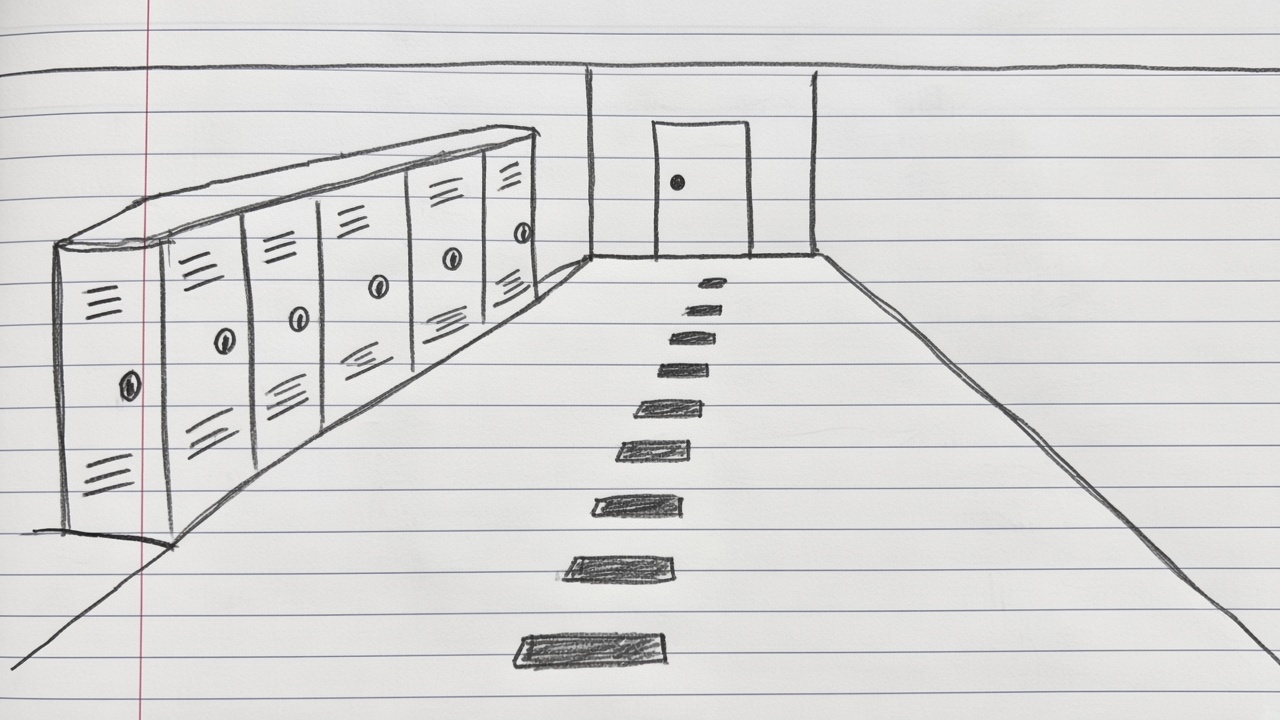
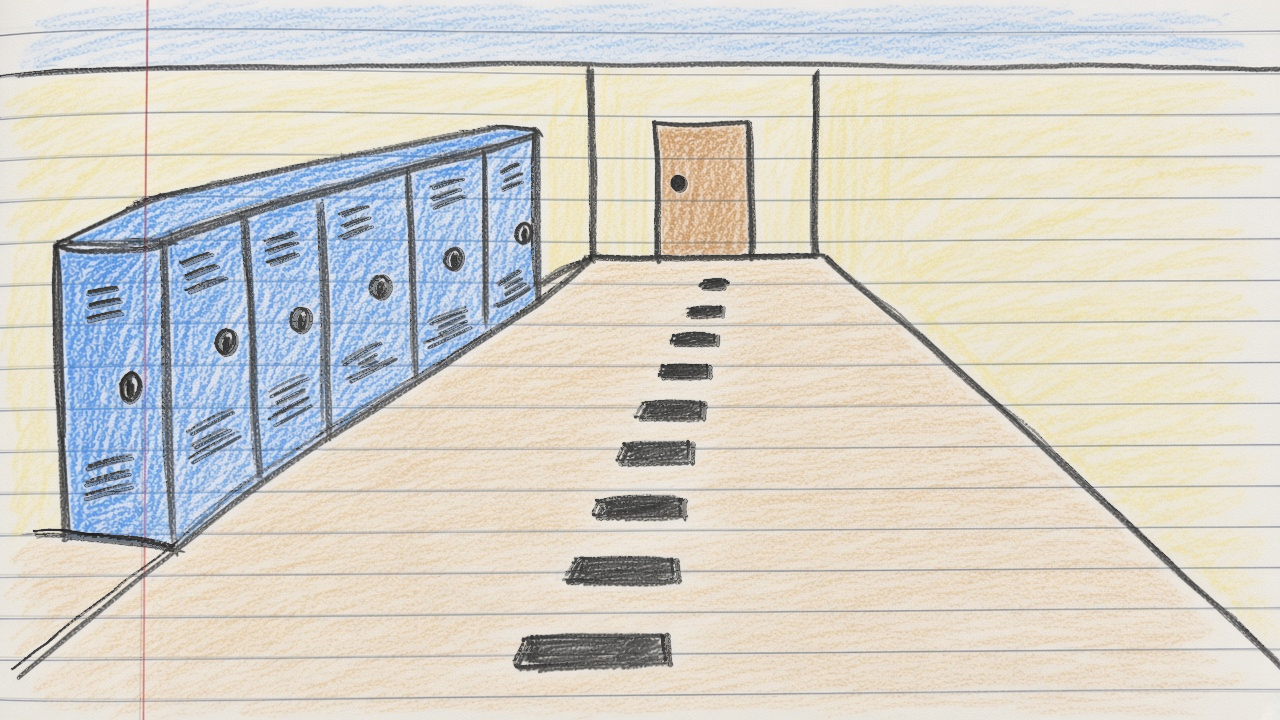
Wire Spelling demo color Soft Next hallway (cache-bust v43/v3)
Replace B&W school-hallway.png with school-day Soft Next color hallway
(SHA 04bd4b7c). Cast unchanged (8/8 SHA MATCH Spelling Soft PASS #3).
Bump hub app.js?v=43, spelling playPath and play assets ?v=3.

diff --git a/play/spelling-vs-lennon/index.html b/play/spelling-vs-lennon/index.html
@@ -4,7 +4,7 @@
   <meta charset="UTF-8" />
   <meta name="viewport" content="width=device-width, initial-scale=1, maximum-scale=1, user-scalable=no" />
   <title>Spelling vs Lennon</title>
-  <link rel="stylesheet" href="css/style.css" />
+  <link rel="stylesheet" href="css/style.css?v=3" />
 </head>
 <body>
   <div id="app">
@@ -57,6 +57,6 @@
       <button id="cycle-btn" type="button">A/D</button>
     </div>
   </div>
-  <script type="module" src="js/game.js?v=1"></script>
+  <script type="module" src="js/game.js?v=3"></script>
 </body>
 </html>

diff --git a/app.js b/app.js
@@ -210,7 +210,7 @@ const DEMOS = [
     parent: "School hallway · spell words · face Lennon",
     blurb: "",
     kind: "play",
-    playPath: "play/spelling-vs-lennon/?v=2",
+    playPath: "play/spelling-vs-lennon/?v=3",
     shelfCover: "10_game_assets/demo/spelling-vs-lennon.png?v=25",
     iframeTitle: "Spelling vs Lennon",
   },

diff --git a/index.html b/index.html
@@ -91,6 +91,6 @@
     </div>
   </main>
 
-  <script src="app.js?v=42"></script>
+  <script src="app.js?v=43"></script>
 </body>
 </html>
